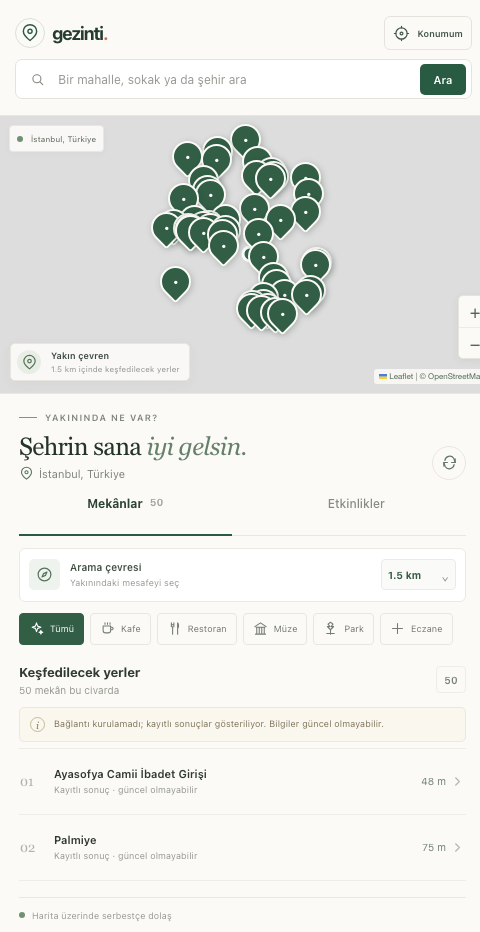
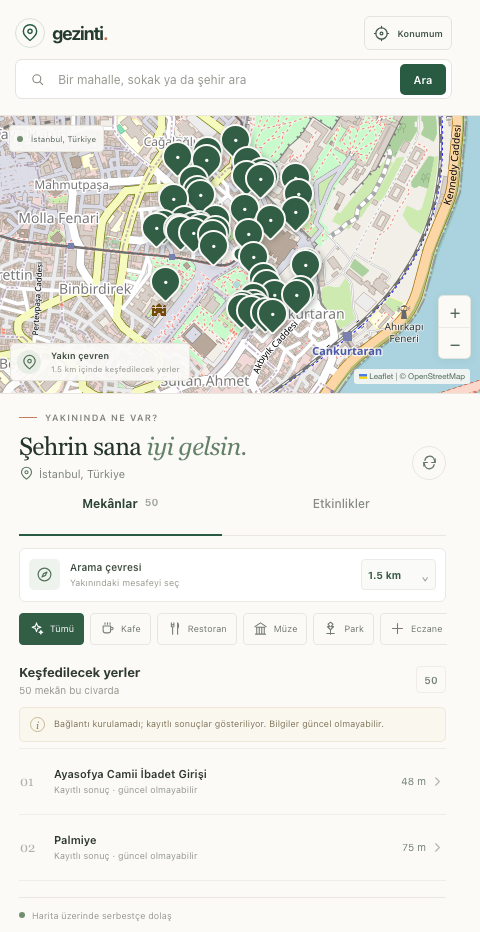
fix: keep map tiles visible on mobile

diff --git a/frontend/src/App.tsx b/frontend/src/App.tsx
@@ -220,6 +220,22 @@ function App() {
   }, [])
 
   useEffect(() => {
+    const element = mapElement.current
+    if (!element || !map.current) return
+
+    // Leaflet reads the container size when it initializes. The responsive
+    // mobile layout changes that size, so keep the map tiles aligned after
+    // the sidebar/map split settles and whenever the viewport changes.
+    const resizeObserver = new ResizeObserver(() => {
+      map.current?.invalidateSize({ pan: false })
+    })
+    resizeObserver.observe(element)
+    requestAnimationFrame(() => map.current?.invalidateSize({ pan: false }))
+
+    return () => resizeObserver.disconnect()
+  }, [])
+
+  useEffect(() => {
     // Start with the default city. Ask for device location only after the
     // user explicitly chooses the current-location button.
     void searchPlaces(initialPosition, '', searchRadius)
